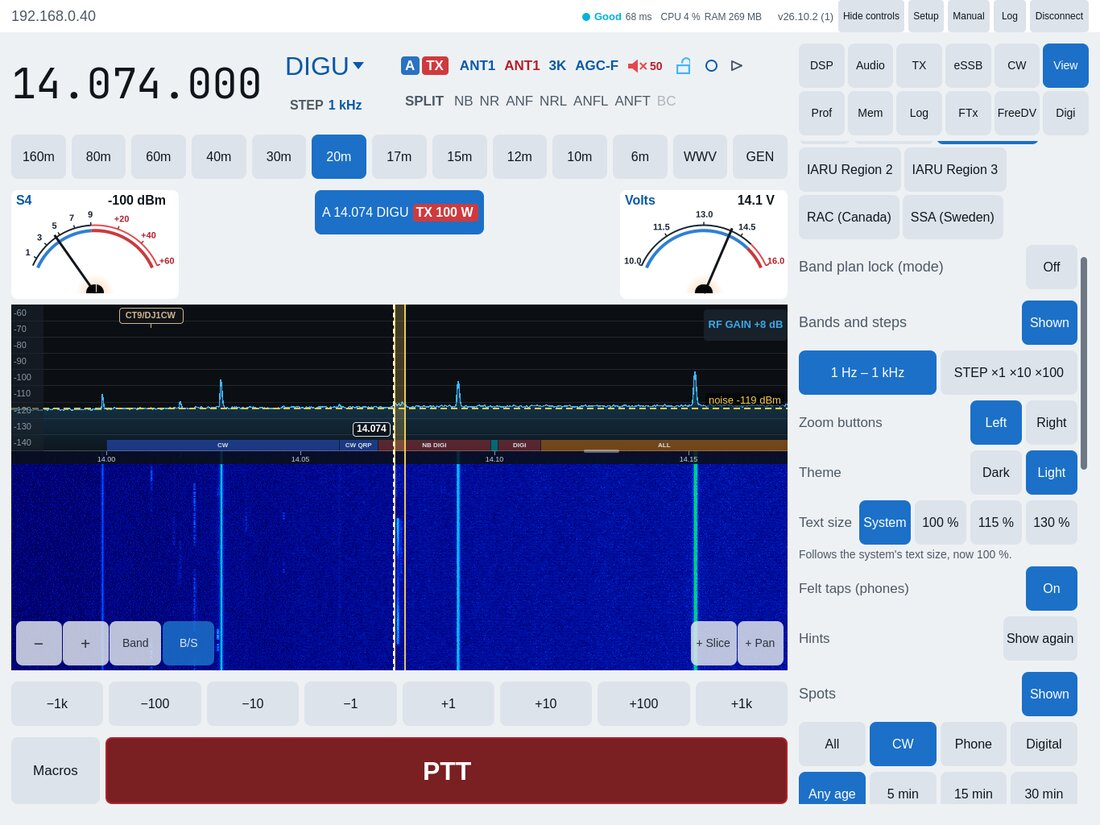
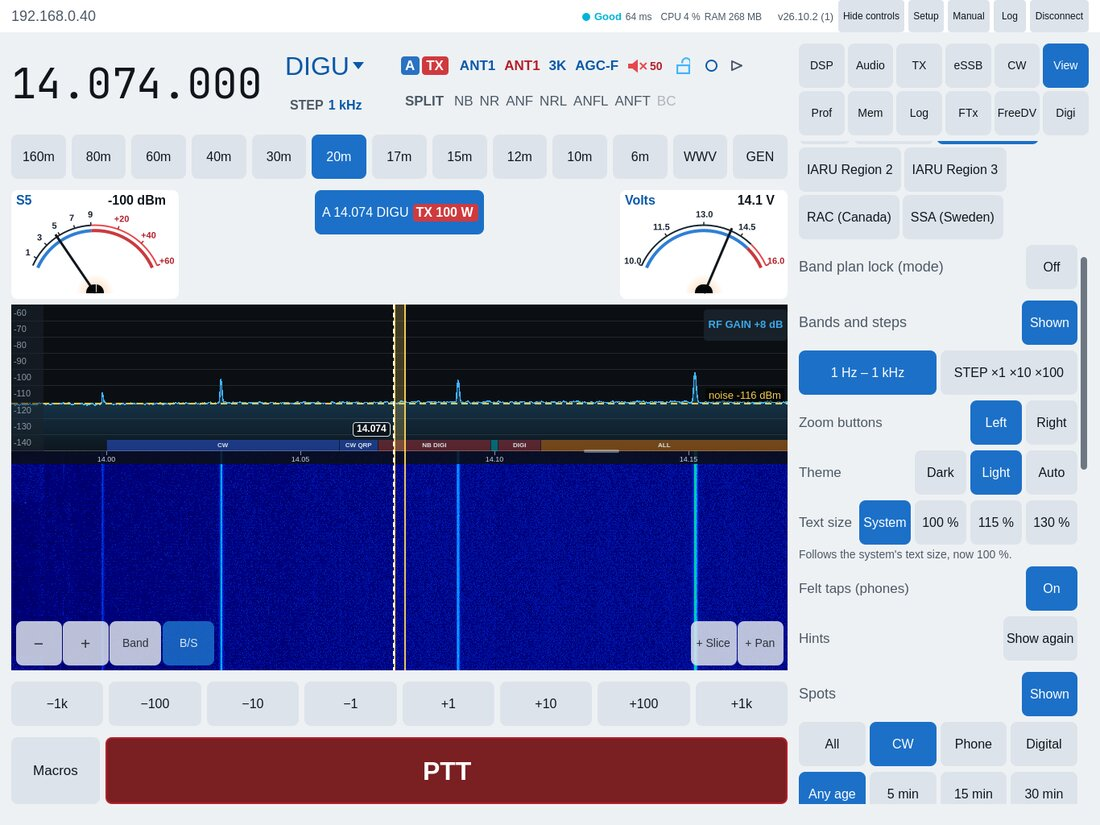
mobile: build 200: the manual's TX, View and Light pictures; TestFlight notes under 4000; roadmap: a rotator (A71AT), FreeDV at first (Scott)
- docs/mobile/manual: tab-tx, tab-view and theme-light rendered again on
  the FLEX (the Light picture's View tab with Theme Auto).
- TESTFLIGHT_WHATS_NEW.txt: build 200's lines shortened and builds 193-194
  dropped from RECENT (4428 -> 3952 characters; TestFlight takes 4000).
- ROADMAP: Mohammed Alkhayarin A71AT's rotator request (PstRotatorAz over
  the network) with Sergio's; Scott Stanford's TestFlight report (build 199:
  FreeDV does not transmit until FM and back) to pre-analyse; the Later
  status bar idea marked as 124.
- classic-check for b7a2cc1a1 approved: only live content, and the pinned
  View tab's Theme row with Auto at three sizes.

Screenshots: tab-tx, tab-view, theme-light

Claude-Session: https://claude.ai/code/session_01KANojkzU64KoozGDbNDzRK

diff --git a/mobile/ROADMAP.md b/mobile/ROADMAP.md
@@ -910,14 +910,15 @@ Next: verify LAN discovery on the radio's network; APK size (about 150 MB).
 
 ## Later
 
-- **The status bar in Dark with the system in light mode** (found 2026-11-21 on the Android emulator while testing 118): the clock and icons are dark on the dark page, hard to read; iOS's default status bar style follows the system the same way. Asking the system for its dark colour scheme in Dark (QStyleHints::setColorScheme(Dark), as Light asks for light) would make them light, but it also sets the controls' unset palette roles from the dark system palette: a change to Dark's look, so classic-check and the user's decision first.
+- **FreeDV not transmitting at first** (Scott Stanford, TestFlight feedback 2026-11-21 20:16, build 199, iPhone 16 Pro Max, iOS 27.2.1: "When I fist open the app and turn on FreeDV, it will not transmit til I select FM then go back to FreeDV then it will transmit"). To pre-analyse: what turning on FreeDV does to the slice's mode and the radio's TX path on a fresh start (DIGU, the waveform, mic selection, DAX) against what a mode change to FM and back does; reproduce on the FLEX from a fresh start (low power), the devlink log if Scott sends one.
+- **The status bar in Dark with the system in light mode** (now 124) (found 2026-11-21 on the Android emulator while testing 118): the clock and icons are dark on the dark page, hard to read; iOS's default status bar style follows the system the same way. Asking the system for its dark colour scheme in Dark (QStyleHints::setColorScheme(Dark), as Light asks for light) would make them light, but it also sets the controls' unset palette roles from the dark system palette: a change to Dark's look, so classic-check and the user's decision first.
 - **Several logs** (Robin Bishop, FB post in the group 2026-11-21 08:38 UTC: "Is it possible to have multiple logs in the app? For example, typically each POTA outing is a separate log ... I also like to have separate log files for club nets"). Now one log (QsoLog), *Share the log (ADIF)* sends all of it. Idea to pre-analyse: named logs (New log, switch, rename), each its own ADIF file and shared on its own; worked-before and the logbook uploads (QRZ.com, Wavelog, the logging program) across all; or a lighter step first: Share by date or by My park. Asked Robin whether he would start a log by hand or have the app start one when My park is set; Robin (FB, 2026-11-21): "manually creating a log would be safer!" So: logs started and named by hand.
 - **Voice macros while the radio's microphone is in use** (Christoph Steinert DM5HF, mail 2026-11-21 18:37, POTA with a headset on his AU-510: "when choosing the radio mic for TX (POTA with Headset) it would be a big help, if the DVK could key out of Oksa SDR"). Now: with *Use the radio's microphone* the app's PTT is off (transmitAvailable needs mic_selection=PC), so the app's own recordings (no SmartSDR+ DVK on the radio) cannot be sent. Idea to pre-analyse: for one voice macro the app sets the mic input to PC, keys, plays the clip, unkeys and puts the radio's microphone back (never while the operator keys with the radio's PTT; the Repeat timer the same way); what SmartSDR does, and whether the switch is quick enough to clip nothing. Christoph (mail 2026-11-21 19:09): "The mic switch for the mic sounds amazing to me".
 - **Answer CQ's calls per station set by the user** (now 102) (Kurt Hanisch DL5EAG, mail 2026-11-18: "Is it possible to make the auto-response to a CQ call configurable? Currently, the calling sequence is fixed at 5 repetitions", "only if it doesn't require a significant amount of work"): the 5 calls per station (MobileEngine's Answer CQ) as a setting in FTx settings, perhaps also for a tapped call; to pre-analyse (which calls he means, Answer CQ's or a tapped station's, the range, WSJT-X's own limit) before it gets a number. Kurt's answer the same evening: "It would be best if it were freely selectable. Sometimes 2 calls are enough, other times 20 might be needed" (so Answer CQ's calls, a range of at least 2-20).
 - **DP-AMP readings** (Chris DG8DP, DP-AMP, Messenger 2026-11-14: "I can give you the readings as Kommata seperated Date at the Webserver Port. Example: 10.0.0.24:88/Data", "fwd,ref,vswr,temp"; his web interface on every device; the user offered DP-AMP support and marketing help for the DP-AMP Sixty One on 2026-11-12): the amplifier's forward and reflected power, VSWR and temperature polled over HTTP like the RF2K-S (RfkitConnection) and offered on the four main meters and an Amp tab view, read only. Numbered after the pre-analysis, once Chris answers the units, the polling rate, whether the page has operate / band / fault too and a real example line (asked 2026-11-16).
 - **Screen readers: fix what the device test found** (2026-11-05, the user with build 156 on the iPad (VoiceOver) and the OnePlus (TalkBack): "it does not work logically"; on the iPad stuck in the frequency entry, which stayed on screen). Found from the logs and Qt 6.10's sources: Qt's iOS bridge gives VoiceOver the whole window as one flat list, with no modal: when a dialog opens VoiceOver starts at the page under it (the log shows the band set to 160 m behind the open frequency entry), the dialog's buttons are at the list's end, and the page stays usable behind it; an element with no name, value or description is left out (the entry's delete key); on Android a TalkBack double tap on the spectrum tunes to its middle (14.144 -> 14.086 -> 14.108 -> 14.088 in the log). Plan: hide the page from the screen reader while a modal dialog or panel is open (Qt skips an invisible container's children: the page under an accessible container that shrinks to zero size while a popup is open, drawn as before) and move VoiceOver to the dialog's first control; a name for every icon button; the spectrum a picture to the screen reader, not tuned by its double tap; the frequency entry read as typed. A preview on the user's iPad and phone with VoiceOver and TalkBack before the testers. Meanwhile build 156's frequency tuning by swipe and the spoken mode / transmit notices are taken out (the user, after getting stuck in the frequency entry and then the notch panel: "liian keskeneräinen", out in the next build); the controls' names from build 139 stay.
 - **TGXL SO2R and the Antenna Genius** (2026-11-04, the user: after build 153, with Ben Morris's setup: an SO2R TGXL on an Antenna Genius SO2R): the active channel (status active=1|2) shown and switched (activate ch=1|2), the A / B readings per channel, and the Antenna Genius (4O3A's AG TCP/IP API, github.com/4o3a/genius-api-docs, port 9007) read, then controlled. Built from Ben's app log (Log › Copy after Controls › Amp), not from the documents alone. With it the audit's open points: antA's base, the PGXL setup write and its authcode from a stale read, the PGXL sequence past 255, the meters and interlock a real PGXL creates on the radio (genius-mock to create them too).
-- **An antenna controller and a rotator** (Sergio Landoni LU7YS, mail 2026-11-20 15:19, after build 195 worked on his KPA500 and KAT500: "I'm also adding my own automatic antenna controller and remote rotator control to the station. With these two additions, I'll complete the circle and have full remote control of LU7YS from my iPhone"): which devices and how they are on the network asked first. The engine already has the 4O3A Antenna Genius (in the app on the Amp tab since build 154) and Green Heron's Everyware server (core/GreenHeronProtocol.h, GreenHeronModel: antenna switches and rotators over TCP 10000, the desktop's GreenHeronApplet), so a device behind one of those is a short way; anything else wants its own pre-analysis. Waiting for his answer.
+- **An antenna controller and a rotator** (Sergio Landoni LU7YS, mail 2026-11-20 15:19, after build 195 worked on his KPA500 and KAT500: "I'm also adding my own automatic antenna controller and remote rotator control to the station. With these two additions, I'll complete the circle and have full remote control of LU7YS from my iPhone"): which devices and how they are on the network asked first. The engine already has the 4O3A Antenna Genius (in the app on the Amp tab since build 154) and Green Heron's Everyware server (core/GreenHeronProtocol.h, GreenHeronModel: antenna switches and rotators over TCP 10000, the desktop's GreenHeronApplet), so a device behind one of those is a short way; anything else wants its own pre-analysis. Waiting for his answer. Mohammed Alkhayarin A71AT (mail 2026-11-21 22:07) asks the same for a rotator: "perhaps through an IP address pointing to a PC running the PST Rotator software" (PstRotatorAz's UDP interface, as Pocket SDR offers); to pre-analyse with the rest.
 - **Tailnet shim setup** (noted 2026-11-04, the user: it belongs to the desktop; installing it from a mobile device is not on the roadmap now, kept for the record): upstream AetherSDR's flex-tailnet-shim is a Docker waveform inside a FLEX-8000 / Aurora that puts the radio on the owner's tailnet (a single-use Tailscale auth key, an allow list, sharing the station's 4O3A devices), set up once over the radio's LAN from the desktop's Waveforms › Remote Access. OksaSDR already connects to a radio on a tailnet by its MagicDNS name or 100.x address (the radio list, build 151); what the app would add is only the install and provisioning (download and upload of the 8 MB image, the provisioning API on port 48992, the admin token in the Keychain).
 
 From the comparison with upstream main and tester requests:
